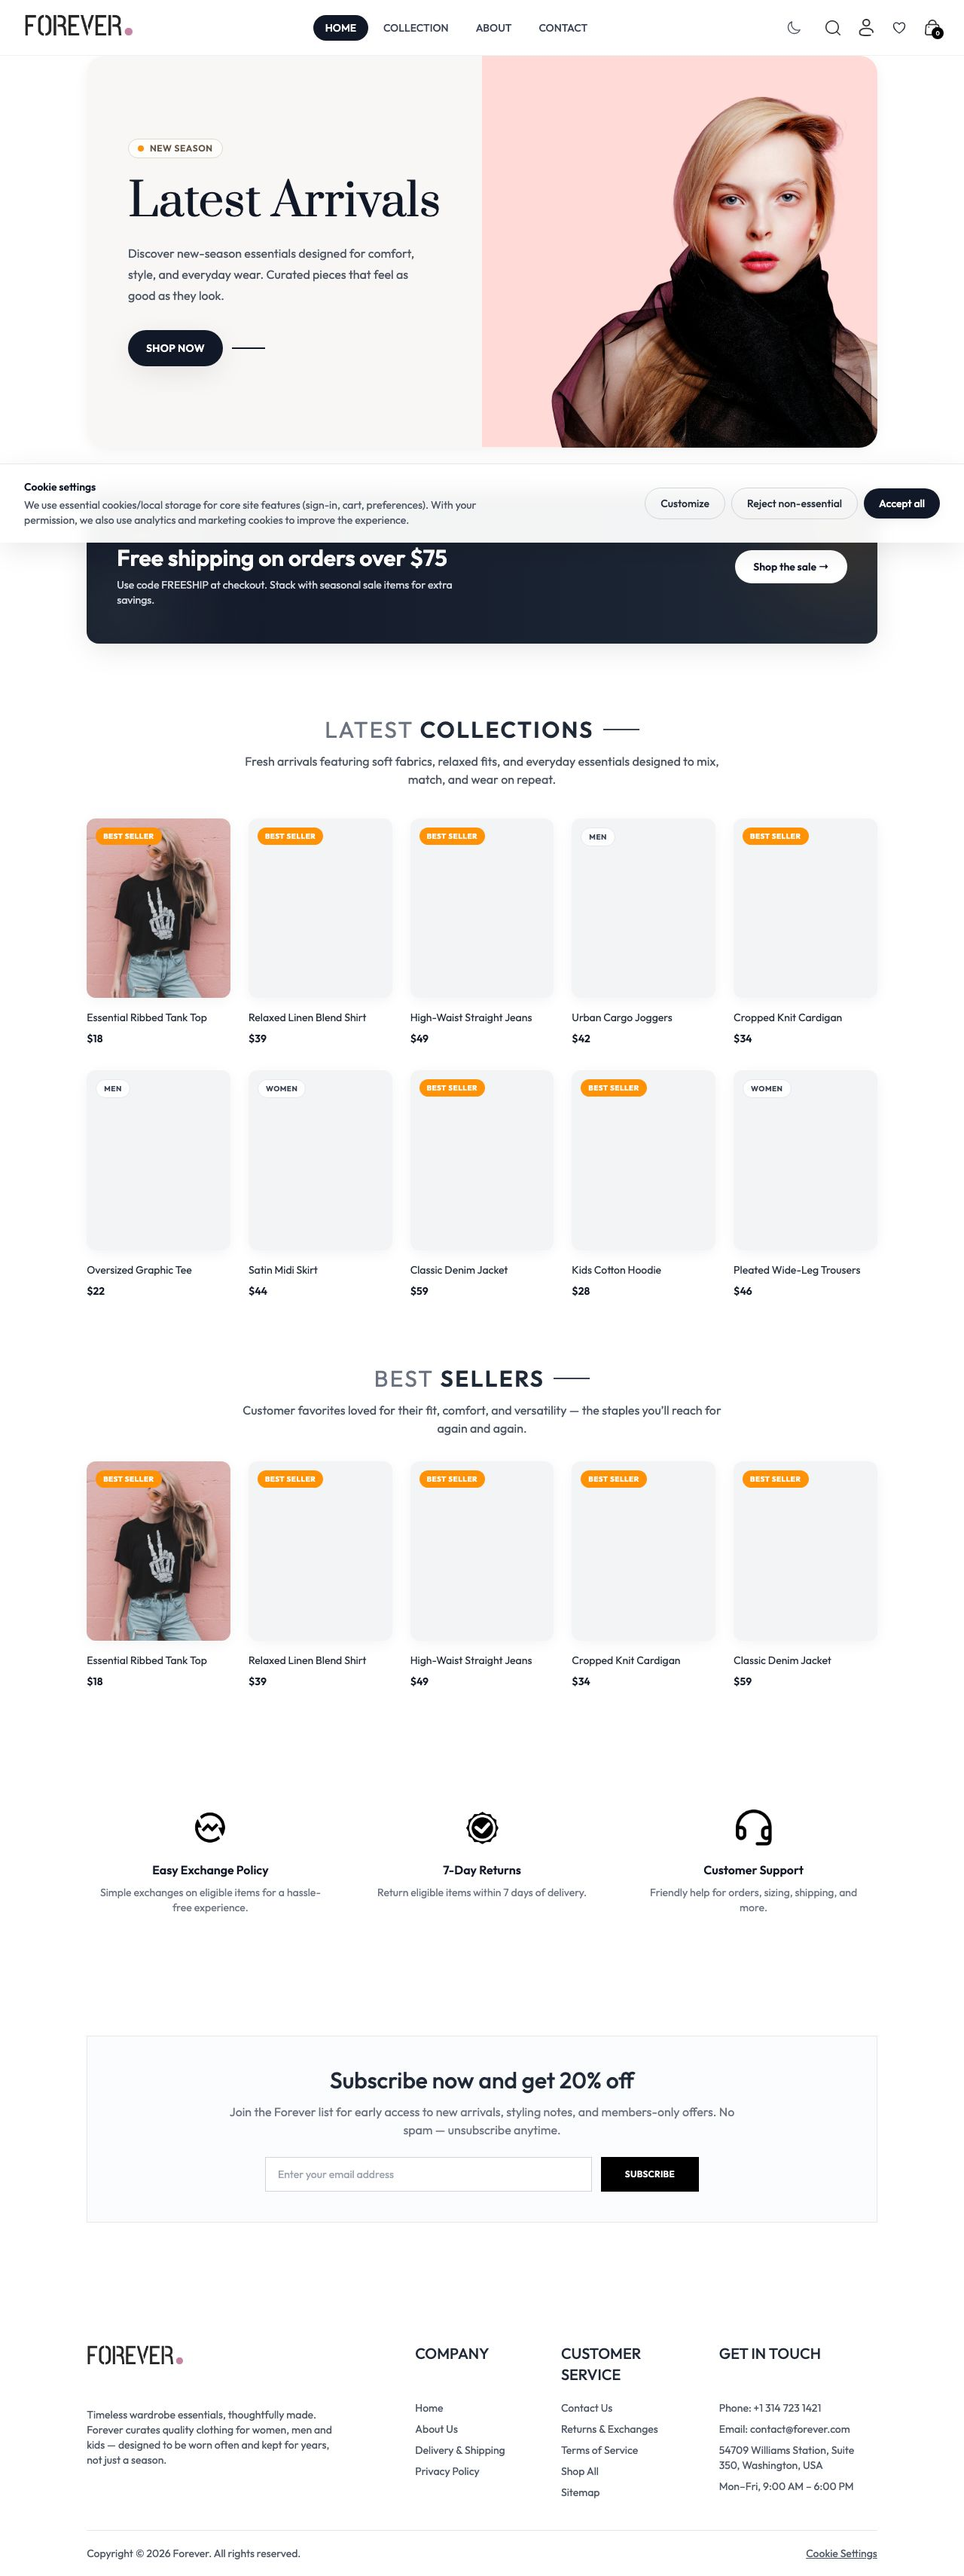
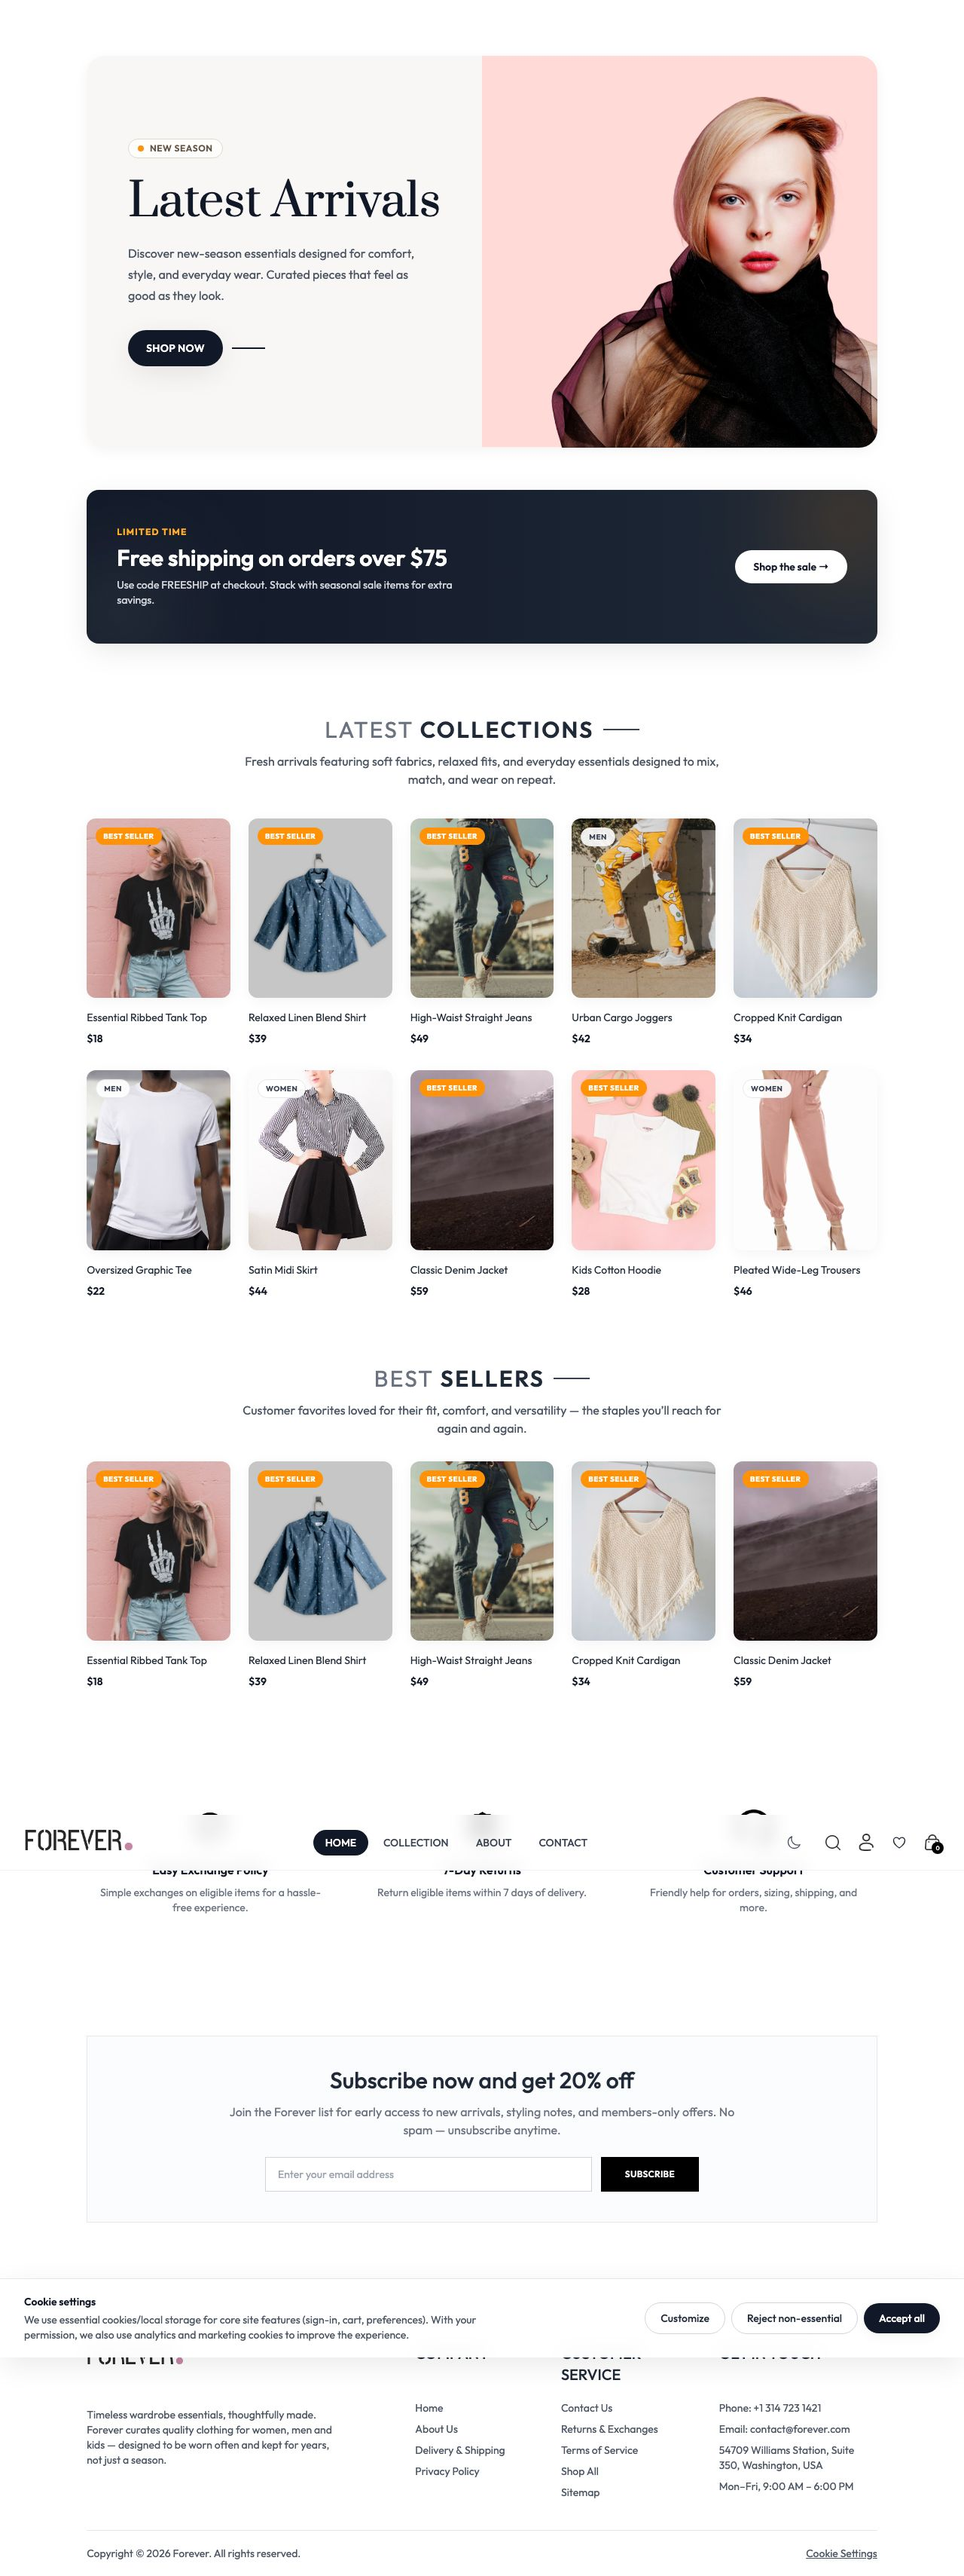
Update Diary title and redo full-page screenshots for Forever, ThePokeApp, and Tomato

diff --git a/src/data/projects.js b/src/data/projects.js
@@ -23,9 +23,9 @@ export const projects = [
 		],
 	},
 	{
-		title: "Diary",
+		title: "Diary/Developer Page",
 		description:
-			"A personal diary and journaling site built with Next.js, featuring dated entries, archive browsing, and dedicated About, Projects, and Now sections.",
+			"A personal diary and developer page built with Next.js, featuring dated entries, archive browsing, and dedicated About, Projects, and Now sections.",
 		url: "https://diary-2jv99sgyx-terry-biesboers-projects.vercel.app",
 		repo: "https://github.com/biesboerTerry-FS/Diary",
 		image: diaryImage,
